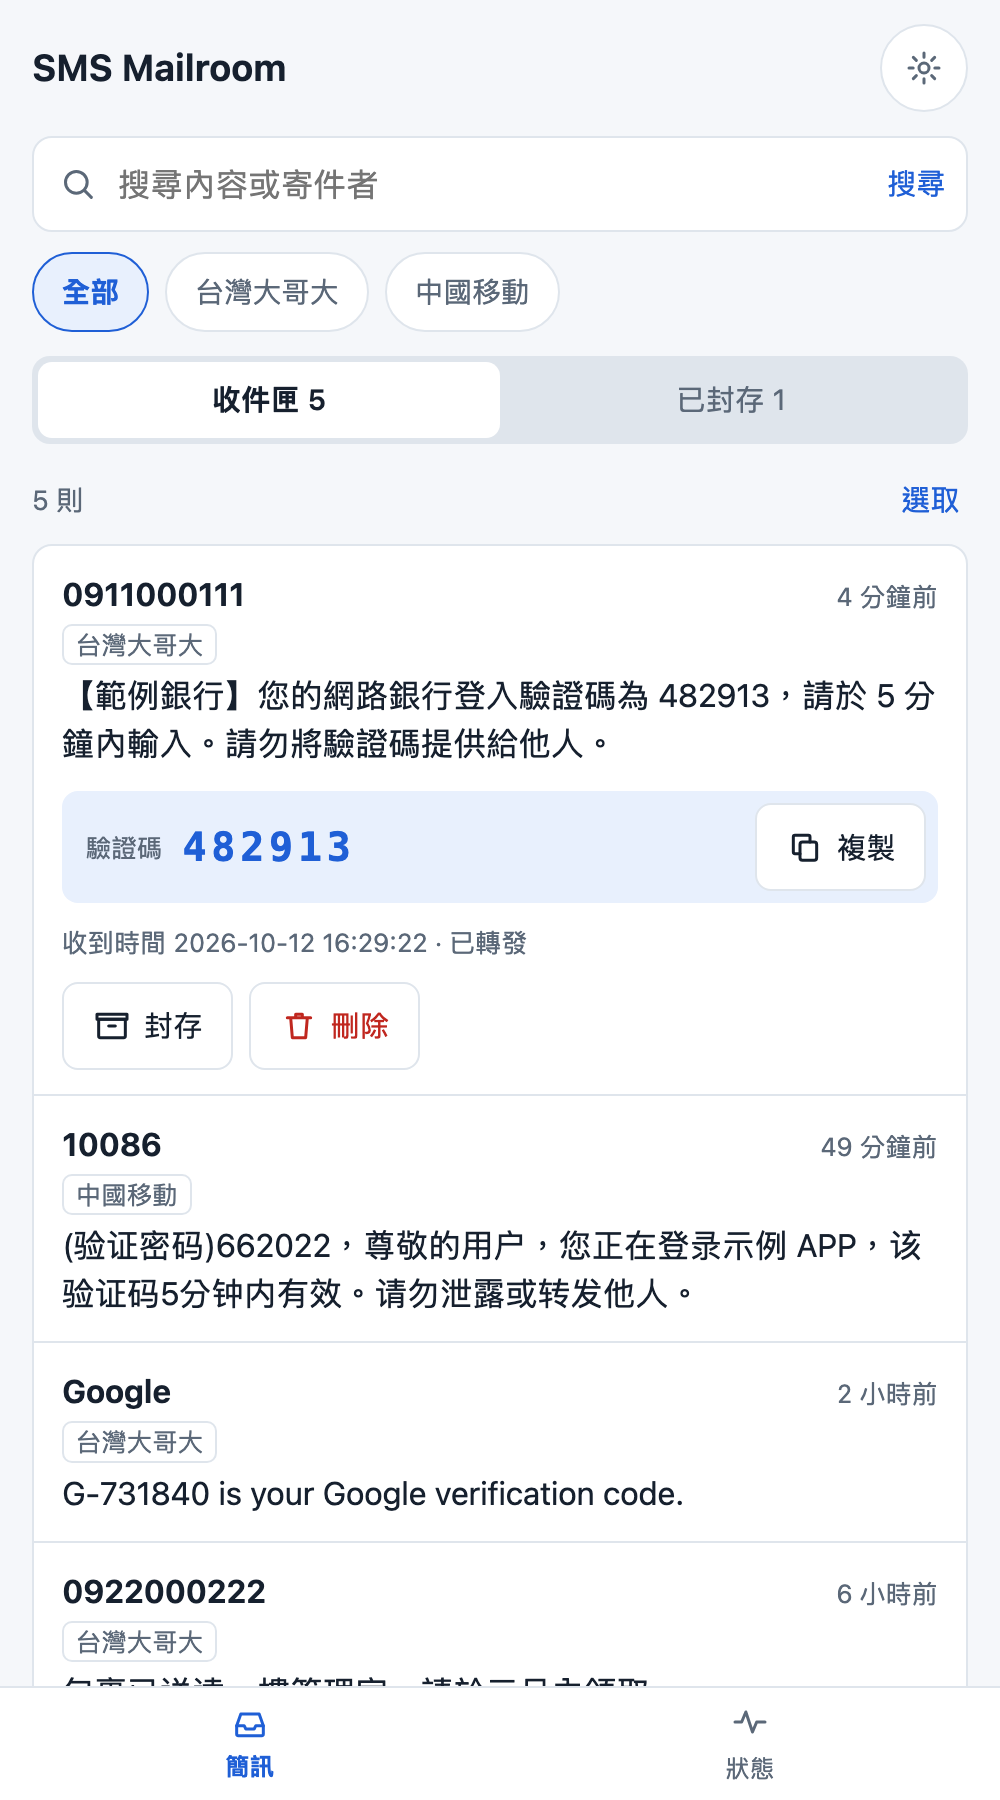
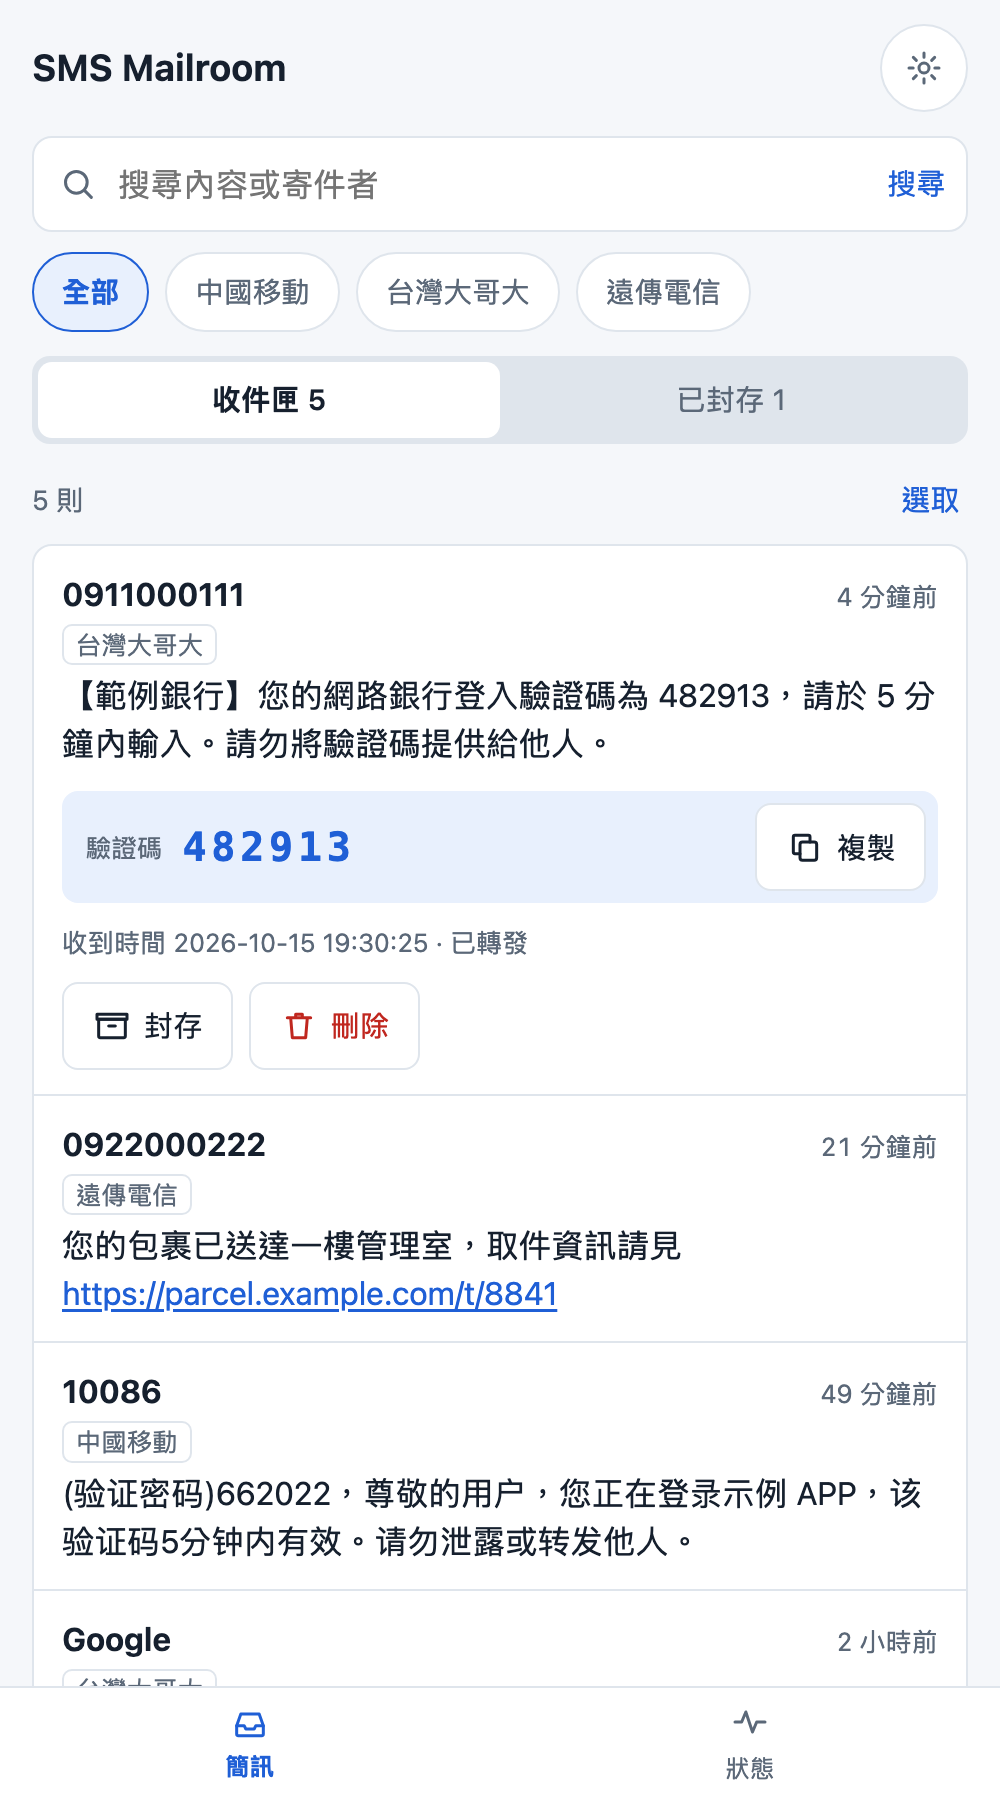
Refresh the screenshots and say what the read errors likely were
The screenshots now show three SIMs and a Message with a link. The
README and runbook name an underpowered USB hub as the likely cause of
read errors, and the README records the third SIM and the unattended
reboot as verified.

Claude-Session: https://claude.ai/code/session_011h4iS9FLFg1nRU6RzJaRqh

diff --git a/README.en.md b/README.en.md
@@ -33,7 +33,7 @@ The numbers, modems and messages shown are sample data.
 |---|---|
 | Computer | A Mac that stays on (developed and tested on Apple Silicon, macOS 27) |
 | Modems | SIMCom **A7672G** USB modems, one per SIM. Other A76XX modules may work but are untested |
-| USB hub | For more than one modem; give it its own power supply |
+| USB hub | For more than one modem; give it its own power supply, with enough to spare: an underpowered hub makes modems report read errors and drop off |
 | Telegram bot | Receives the forwarded messages; create one with [@BotFather](https://t.me/BotFather) |
 | Cloudflare account | With a domain on Cloudflare, for remote access through a Tunnel and Access |
 | Software | [uv](https://docs.astral.sh/uv/), which installs the right Python for you |
@@ -122,7 +122,7 @@ The program is a single Python process: one thread per modem receives messages, 
 
 - Tested only on macOS with the A7672G. Linux has a ready-made serial driver for these modems, but this project's USB layer was written for the macOS situation.
 - A roaming SIM sometimes receives an SMS minutes late; that is the network's doing.
-- A modem occasionally reports a read error, which is retried automatically; the cause is not yet known.
+- A modem occasionally reports a read error, which is retried automatically. The likely cause is an underpowered USB hub: since its power supply was replaced, none have been seen.
 - Messages are stored unencrypted in the local SQLite database.
 - With FileVault on, the Mac waits for a password at the machine after a reboot or a power cut, and receives nothing until someone types it. See the runbook.
 
@@ -136,7 +136,7 @@ Not built yet, and may be added later:
 
 Almost all of the code, tests and documentation in this project were written by an AI (Anthropic's Claude) under the author's direction. The author supplied the requirements, made the design decisions, handled the hardware and verified the result on it.
 
-What has been verified in practice: on one Mac mini, two A7672G modems with a Taiwan Mobile SIM and a roaming China Mobile SIM, receiving SMS, forwarding to Telegram, and signing in to the page through Cloudflare Access. The automated tests use a simulated modem and need no hardware.
+What has been verified in practice: on one Mac mini, three A7672G modems with a Taiwan Mobile SIM, a Far EasTone SIM and a roaming China Mobile SIM, receiving SMS, forwarding to Telegram, and signing in to the page through Cloudflare Access; and, with FileVault off, a reboot after which the service was receiving again before anyone had typed a password. The automated tests use a simulated modem and need no hardware.
 
 This program handles verification codes. Review the code yourself before deploying it, in particular the three places that decide who gets in: `src/mailroom/access.py` (verifying the Cloudflare Access token), the middleware in `src/mailroom/web.py` that applies the check, and the settings in `src/mailroom/config.py` and `src/mailroom/__main__.py` that decide whether the check is on (`allow_unauthenticated`).
 

diff --git a/README.md b/README.md
@@ -33,7 +33,7 @@ SMS Mailroom 讓一台不關機的 Mac 替你收簡訊。把 SIM 卡插在 USB 4
 |---|---|
 | 電腦 | 一台持續開機的 Mac（在 Apple Silicon、macOS 27 上開發與測試） |
 | 模組 | SIMCom **A7672G** USB 模組，每張 SIM 一片。其他 A76XX 系列可能可用，但沒有測試過 |
-| USB 集線器 | 接多片模組時使用，請接上獨立電源 |
+| USB 集線器 | 接多片模組時使用，請接上獨立而且功率足夠的電源；供電不足時，模組會出現讀取錯誤或掉線 |
 | Telegram 機器人 | 用來接收轉發的簡訊，向 [@BotFather](https://t.me/BotFather) 申請 |
 | Cloudflare 帳號 | 需要一個託管在 Cloudflare 的網域，用 Tunnel 和 Access 提供遠端存取 |
 | 軟體 | [uv](https://docs.astral.sh/uv/)（會自動安裝所需的 Python） |
@@ -122,7 +122,7 @@ macOS 沒有這款模組的驅動程式，所以不會出現序列埠。SMS Mail
 
 - 只在 macOS 和 A7672G 上測試過。Linux 有現成的序列埠驅動程式，但這個專案的 USB 層是針對 macOS 的情況寫的。
 - 漫遊中的 SIM 有時會晚幾分鐘才收到簡訊，這是電信網路的行為。
-- 模組偶爾會回報讀取錯誤，程式會自動重試；原因還不清楚。
+- 模組偶爾會回報讀取錯誤，程式會自動重試。目前看來，原因多半是 USB 集線器供電不足：換了電源之後，到現在都沒有再出現。
 - 簡訊內容以明文存在本機的 SQLite 資料庫裡。
 - Mac 如果開啟了 FileVault，重開機或停電後要有人在現場輸入密碼才會繼續開機，在那之前不會收簡訊。詳見操作手冊。
 
@@ -136,7 +136,7 @@ macOS 沒有這款模組的驅動程式，所以不會出現序列埠。SMS Mail
 
 這個專案的程式碼、測試和文件，絕大部分是由 AI（Anthropic 的 Claude）在作者的指示下撰寫的。作者負責需求、設計決定、硬體操作和實機驗證。
 
-實際驗證過的範圍：在一台 Mac mini 上，以兩片 A7672G 模組搭配台灣大哥大和中國移動（漫遊）的 SIM 卡收簡訊、轉發到 Telegram，並透過 Cloudflare Access 登入網頁。自動化測試使用模擬的模組，不需要硬體。
+實際驗證過的範圍：在一台 Mac mini 上，以三片 A7672G 模組搭配台灣大哥大、遠傳和中國移動（漫遊）的 SIM 卡收簡訊、轉發到 Telegram，並透過 Cloudflare Access 登入網頁；也實測過在關閉 FileVault 的情況下重新開機，不必有人輸入密碼，服務就會自己恢復收簡訊。自動化測試使用模擬的模組，不需要硬體。
 
 這個程式會經手驗證碼簡訊。部署之前，請自行審閱程式碼，尤其是跟存取控制有關的三處：`src/mailroom/access.py`（驗證 Cloudflare Access 憑證）、`src/mailroom/web.py` 裡套用檢查的中介層，以及 `src/mailroom/config.py` 和 `src/mailroom/__main__.py` 裡決定是否啟用檢查的設定（`allow_unauthenticated`）。
 

diff --git a/docs/runbook.en.md b/docs/runbook.en.md
@@ -61,7 +61,7 @@ Messages received after that backup are not in it; they are still in the Telegra
 - **A wrong or missing number:** the number is read from the SIM, and some SIMs carry none or a wrong one. Under Status, **Edit** on that SIM takes the right number; saving it blank goes back to what the SIM reports. The number is only displayed and has no effect on receiving.
 - **A SIM no longer used:** once taken out, it stays on the Status page as "not in a Modem" and keeps an Alert open. Under Status, **Edit** on that SIM, then **Forget this SIM**: it leaves the Status page and the SIM filter, and its Alert goes away without a "resolved" notice. Its Messages are kept and can still be searched. Put the same SIM into a Modem again and it comes back with its label, number and Forwarding setting. A SIM that is in a Modem cannot be forgotten.
 - **Adding a Modem:** just plug it in; SMS Mailroom picks it up within a few seconds.
-- **USB hub:** power it from its own 5 V supply. A Modem that keeps dropping off the bus raises a "keeps disconnecting" Alert; check the hub, its power supply and the cable, or plug the Modem straight into the Mac.
+- **USB hub:** power it from its own 5 V supply, with enough to spare. Short of power, Modems first report read errors again and again, then drop off the bus. If the supply is a multi-port charger, check the power table in its manual: some chargers cut one port's power sharply once something is plugged into another. A Modem that keeps dropping off the bus raises a "keeps disconnecting" Alert; check the hub, its power supply and the cable, or plug the Modem straight into the Mac.
 - **A Modem that is plugged in but never shows up:** try another port; if that fails too, unplug both the hub's power supply and its cable to the Mac, wait a few seconds and reconnect them. A hub can occasionally hang as a whole, and replugging the Modem does not bring it back.
 - **Modems in each other's way:** a Modem board is wider than a USB port, so neighbouring ports can be blocked. A short USB extension cable moves one out of the way.
 
@@ -102,6 +102,6 @@ Without `[telegram]`, Messages are stored but not forwarded. Without `[access]`,
 
 ## Known behaviour
 
-- A Modem occasionally reports a read error; SMS Mailroom retries and carries on. A burst of them just before a Modem disappears points at the USB hub.
+- A Modem occasionally reports a read error; SMS Mailroom retries and carries on. A burst of them just before a Modem disappears points at the USB hub or its power supply.
 - Roaming SIMs sometimes deliver an SMS minutes late, or twice. A repeat with the same sender, network time and text is stored once.
 - A Message deleted on the page is gone for good.
